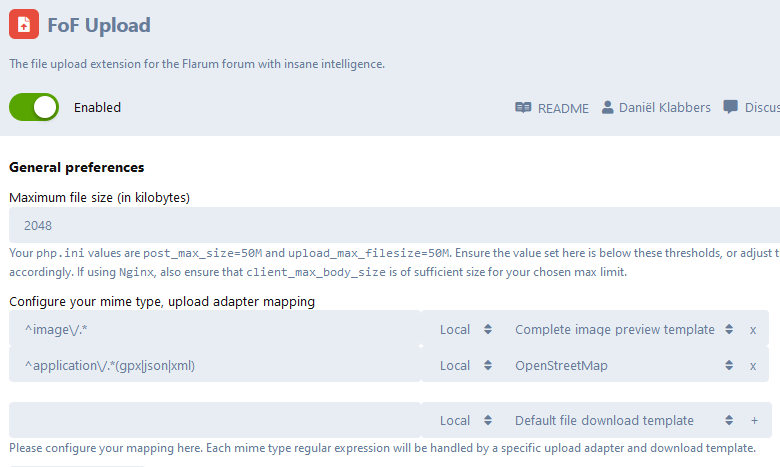
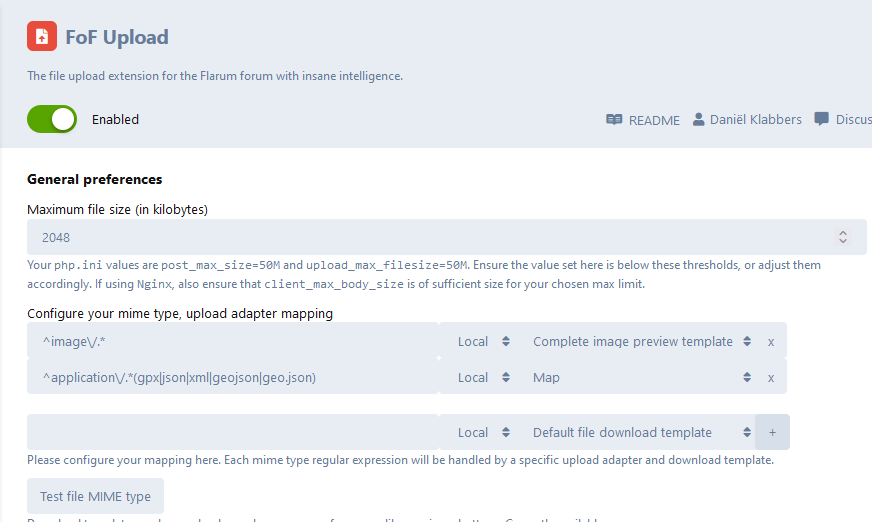
update readme

diff --git a/src/Templates/MapTemplate.php b/src/Templates/MapTemplate.php
@@ -6,7 +6,7 @@ use FoF\Upload\Templates\AbstractTextFormatterTemplate;
 
 /*
  * This class handles the fof-upload formatter
- */ 
+ */
 class MapTemplate extends AbstractTextFormatterTemplate
 {
     /**
@@ -29,7 +29,7 @@ class MapTemplate extends AbstractTextFormatterTemplate
      */
     public function description(): string
     {
-        return $this->trans('jeromegillard-map.admin.templates.map.file_description');
+        return $this->trans('jeromegillard-map.admin.templates.file_description');
     }
 
     /**

diff --git a/README.md b/README.md
@@ -10,18 +10,23 @@ Display a map in flarum in those ways:
 
 ## Installation
 
+### Composer
 Install with composer:
 
 ```sh
 composer require jeromegillard/map:"*"
 ```
 
-Configure FoF/Uploads to add the new GPX Template for `^application\/.*(gpx|json|xml|geojson|geo.json)` files.
+### Configure extensions
+1. Enable the `FoF Uploads` extension.
+2. Enable the `Map` extension.
+3. Configure `FoF Uploads` to add the new GPX Template: 
+  - Add `^application\/.*(gpx|json|xml|geojson|geo.json)` mime type upload adapter mapping.
+  - Select `Map` as template.
 ![Setup FoF Upload MIME type](assets/readme-fof-upload-mime.png)
-
-Then add `gpx,json,geojson` extensions to this list:
+4. Then add `gpx,json,geojson` extensions to this list:
 ![Setup FoF Upload MIME type](assets/readme-fof-upload-extensions.png)
-
+5. Configure the `Map` extension (optional).
 :warning: Don't forget to save your changes!
 
 ## Updating
